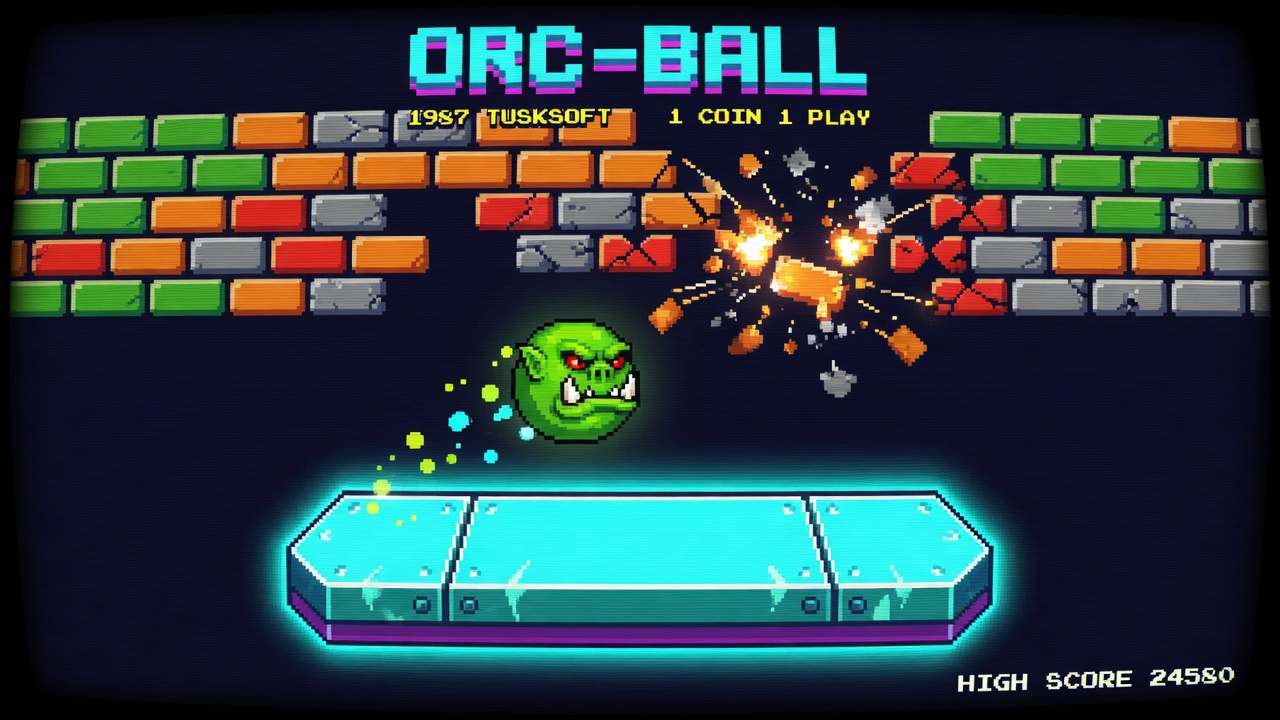
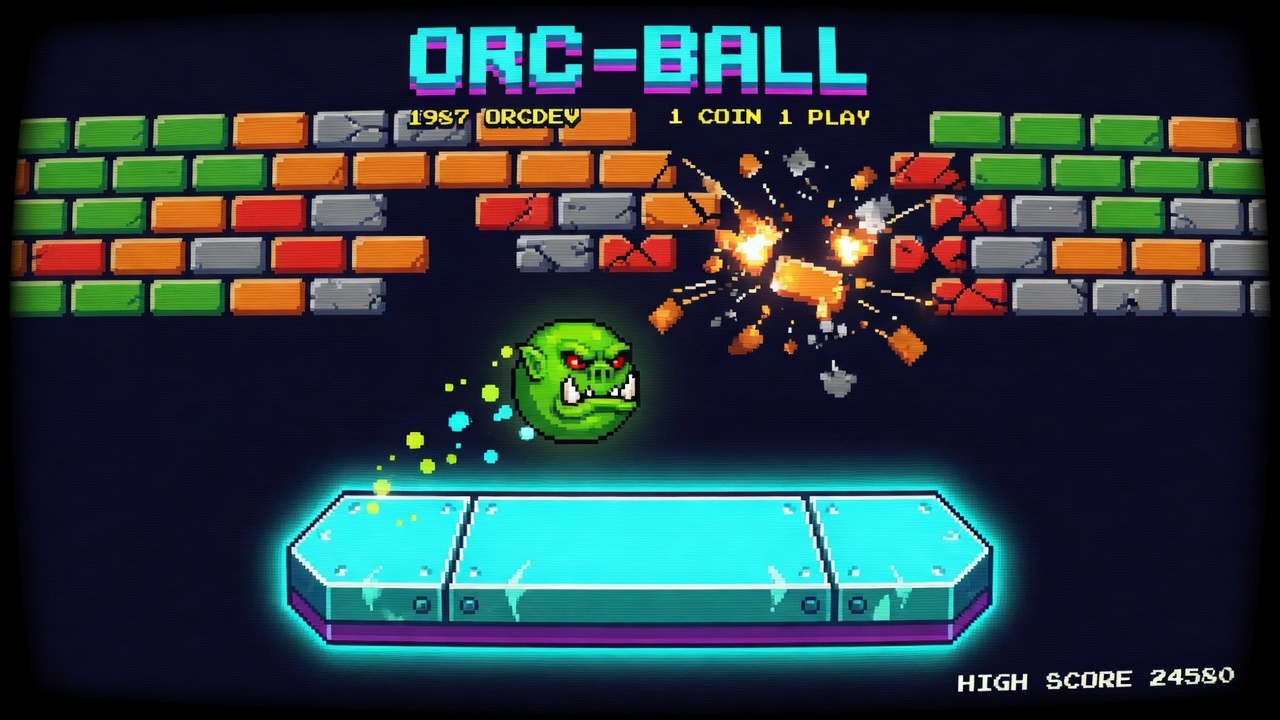
Show landing art on title menu with ORCDEV credit
Use orc-ball-landing.jpg as full-screen MenuScene background
(scrim + controls over the art); image credit text is ORCDEV.

Changed region(s): [[0.3438, 0.1222, 0.5, 0.1833], [0.5625, 0.1528, 0.5938, 0.1833]]

diff --git a/src/scenes/MenuScene.ts b/src/scenes/MenuScene.ts
@@ -20,53 +20,67 @@ export class MenuScene extends Phaser.Scene {
     this.cameras.main.setBackgroundColor(COLORS.bg);
     this.sfx = new Sfx(this);
 
+    // Full-screen retro landing art
+    if (this.textures.exists('menu-bg')) {
+      const bg = this.add.image(WIDTH / 2, HEIGHT / 2, 'menu-bg');
+      // Cover 800×600 playfield (image is 1280×720)
+      const scale = Math.max(WIDTH / bg.width, HEIGHT / bg.height);
+      bg.setScale(scale).setDepth(0);
+    }
+
+    // Bottom scrim so buttons stay readable over the art
+    this.add
+      .rectangle(WIDTH / 2, HEIGHT * 0.78, WIDTH, HEIGHT * 0.48, 0x000000, 0.62)
+      .setDepth(1);
+
     const progress = loadProgress();
     const high = progress.highScore;
     const touch = prefersTouchUi();
     const hasContinue = canContinue(progress);
 
+    // Title is already in the art — small tagline only
     this.add
-      .text(WIDTH / 2, HEIGHT * 0.2, 'ORC-BALL', {
+      .text(WIDTH / 2, HEIGHT * 0.52, 'DX-Ball Style Breakout', {
         fontFamily: 'monospace',
-        fontSize: touch ? '48px' : '56px',
-        color: '#4fc3f7',
-        fontStyle: 'bold',
+        fontSize: '15px',
+        color: '#b0bec5',
+        stroke: '#000000',
+        strokeThickness: 3,
       })
-      .setOrigin(0.5);
+      .setOrigin(0.5)
+      .setDepth(2);
 
     this.add
-      .text(WIDTH / 2, HEIGHT * 0.32, 'DX-Ball Style Breakout', {
-        fontFamily: 'monospace',
-        fontSize: '18px',
-        color: '#90a4ae',
-      })
-      .setOrigin(0.5);
-
-    this.add
-      .text(WIDTH / 2, HEIGHT * 0.4, `High Score: ${high}`, {
+      .text(WIDTH / 2, HEIGHT * 0.575, `High Score: ${high}`, {
         fontFamily: 'monospace',
         fontSize: '18px',
         color: '#ffd54f',
+        stroke: '#000000',
+        strokeThickness: 4,
       })
-      .setOrigin(0.5);
+      .setOrigin(0.5)
+      .setDepth(2);
 
     if (progress.highestLevel > 0) {
       this.add
         .text(
           WIDTH / 2,
-          HEIGHT * 0.46,
+          HEIGHT * 0.62,
           `Best level reached: ${progress.highestLevel + 1}`,
           {
             fontFamily: 'monospace',
-            fontSize: '14px',
-            color: '#78909c',
+            fontSize: '13px',
+            color: '#90a4ae',
+            stroke: '#000000',
+            strokeThickness: 3,
           },
         )
-        .setOrigin(0.5);
+        .setOrigin(0.5)
+        .setDepth(2);
     }
 
-    // Menu buttons
-    let y = HEIGHT * 0.54;
+    // Menu buttons lower on the art
+    let y = HEIGHT * 0.69;
     if (hasContinue && progress.run) {
       const run = progress.run;
       this.addMenuButton(
@@ -76,52 +90,44 @@ export class MenuScene extends Phaser.Scene {
         () => this.startFromRun(run),
         true,
       );
-      y += 52;
+      y += 50;
     }
 
     this.addMenuButton(
       WIDTH / 2,
       y,
-      hasContinue ? 'New Game' : touch ? 'Tap / SPACE — New Game' : 'SPACE — New Game',
+      hasContinue
+        ? 'New Game'
+        : touch
+          ? 'Tap / SPACE — New Game'
+          : 'SPACE — New Game',
       () => this.startNewGame(),
       !hasContinue,
     );
-    y += 52;
 
     this.add
       .text(
         WIDTH / 2,
-        HEIGHT * 0.82,
+        HEIGHT * 0.93,
         touch
-          ? 'Drag move  ·  ESC pause menu  ·  progress auto-saves'
-          : '←→ move  SPACE serve  ESC menu  ·  progress auto-saves',
-        {
-          fontFamily: 'monospace',
-          fontSize: '12px',
-          color: '#546e7a',
-        },
-      )
-      .setOrigin(0.5);
-
-    this.add
-      .text(
-        WIDTH / 2,
-        HEIGHT * 0.88,
-        'G=GLUE  B=BULLET  L=LASER  M=MULTI  E/S=size  +=life',
+          ? 'Drag move  ·  ESC pause  ·  progress saves'
+          : '←→ move  SPACE serve  ESC menu  ·  progress saves',
         {
           fontFamily: 'monospace',
           fontSize: '11px',
-          color: '#455a64',
+          color: '#78909c',
+          stroke: '#000000',
+          strokeThickness: 2,
         },
       )
-      .setOrigin(0.5);
+      .setOrigin(0.5)
+      .setDepth(2);
 
     this.input.keyboard?.addCapture('SPACE,LEFT,RIGHT,A,D,P,ESC');
 
     const space = this.input.keyboard?.addKey(
       Phaser.Input.Keyboard.KeyCodes.SPACE,
     );
-    // SPACE: continue if available, else new game
     space?.once('down', () => {
       if (hasContinue && progress.run) this.startFromRun(progress.run);
       else this.startNewGame();
@@ -136,23 +142,32 @@ export class MenuScene extends Phaser.Scene {
     primary: boolean,
   ): void {
     const bg = this.add
-      .rectangle(x, y, Math.min(WIDTH - 40, 420), 42, primary ? 0x1565c0 : 0x1a2332, 1)
+      .rectangle(
+        x,
+        y,
+        Math.min(WIDTH - 40, 420),
+        42,
+        primary ? 0x1565c0 : 0x1a2332,
+        0.92,
+      )
       .setStrokeStyle(2, primary ? 0x4fc3f7 : 0x546e7a)
-      .setInteractive({ useHandCursor: true });
+      .setInteractive({ useHandCursor: true })
+      .setDepth(2);
     const text = this.add
       .text(x, y, label, {
         fontFamily: 'monospace',
         fontSize: primary ? '16px' : '15px',
         color: '#ffffff',
       })
-      .setOrigin(0.5);
+      .setOrigin(0.5)
+      .setDepth(3);
 
     bg.on('pointerover', () => {
-      bg.setFillStyle(primary ? 0x1976d2 : 0x263348, 1);
+      bg.setFillStyle(primary ? 0x1976d2 : 0x263348, 0.95);
       text.setColor('#4fc3f7');
     });
     bg.on('pointerout', () => {
-      bg.setFillStyle(primary ? 0x1565c0 : 0x1a2332, 1);
+      bg.setFillStyle(primary ? 0x1565c0 : 0x1a2332, 0.92);
       text.setColor('#ffffff');
     });
     bg.on('pointerdown', () => {

diff --git a/src/scenes/BootScene.ts b/src/scenes/BootScene.ts
@@ -28,6 +28,11 @@ export class BootScene extends Phaser.Scene {
     super('BootScene');
   }
 
+  preload(): void {
+    // Title / landing art from public/
+    this.load.image('menu-bg', 'orc-ball-landing.jpg');
+  }
+
   create(): void {
     this.generateTextures();
     this.scene.start('MenuScene');
